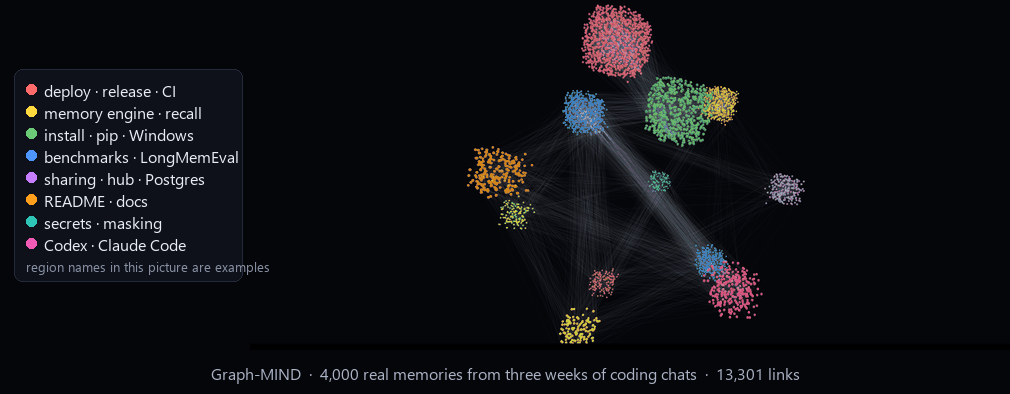
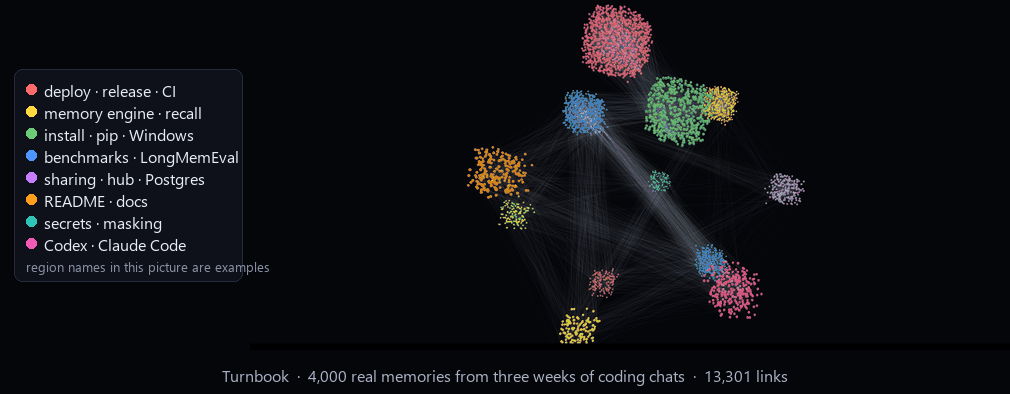
Finish the rename: setup script, demo images, absolute image links for PyPI

Changed region(s): [[0.2149, 0.9137, 0.798, 0.9746]]

diff --git a/bench/evidence.py b/bench/evidence.py
@@ -4,7 +4,7 @@ For each question a fresh store is filled with its haystack exactly as the captu
 fill it (every turn, verbatim, dated by its session, embedded before anyone asks: a server meeting
 a backlog answers from word search while it embeds), the question goes through what brain_context
 runs with its shipped defaults, and we check which answer-bearing turns reach the packet. No model
-is called: this is the part of accuracy that Graph-MIND itself controls, measured on every change.
+is called: this is the part of accuracy that Turnbook itself controls, measured on every change.
 The answer accuracy behind it (88.8%) needs an answer model and a judge: research/REPORT.md §10.
 
 Reported overall, per question type, and apart for the 120 questions the path was tuned on:

diff --git a/bench/recovery.py b/bench/recovery.py
@@ -1,4 +1,4 @@
-"""Does Graph-MIND heal by itself? Every fault it is meant to survive, run and timed.
+"""Does Turnbook heal by itself? Every fault it is meant to survive, run and timed.
 
 Each scenario is a test that breaks something the way it breaks on users' PCs and checks the
 memory keeps answering or comes back without the user. The gaps below are faults nothing handles

diff --git a/README.md b/README.md
@@ -1,7 +1,7 @@
 <!-- mcp-name: io.github.goyohan0611-png/turnbook -->
 <div align="center">
 
-<img src="demo/logo.png" alt="Turnbook" width="112">
+<img src="https://raw.githubusercontent.com/goyohan0611-png/turnbook/main/demo/logo.png" alt="Turnbook" width="112">
 
 # Turnbook
 
@@ -23,7 +23,7 @@
 
 **English** · [한국어](README.ko.md)
 
-<img src="demo/demo.gif" alt="Recorded live: Claude Code saves a decision to Turnbook, and Codex, a different app, recalls it" width="900">
+<img src="https://raw.githubusercontent.com/goyohan0611-png/turnbook/main/demo/demo.gif" alt="Recorded live: Claude Code saves a decision to Turnbook, and Codex, a different app, recalls it" width="900">
 
 <sub>Recorded live on one PC: Claude Code (Opus 5.5, effort high) and Codex (GPT-6.1-Sol, effort high) sharing one Turnbook memory. Model thinking time is fast-forwarded.</sub>
 

diff --git a/README.ko.md b/README.ko.md
@@ -1,6 +1,6 @@
 <div align="center">
 
-<img src="demo/logo.png" alt="Turnbook" width="112">
+<img src="https://raw.githubusercontent.com/goyohan0611-png/turnbook/main/demo/logo.png" alt="Turnbook" width="112">
 
 # Turnbook
 
@@ -19,7 +19,7 @@
 
 [English](README.md) · **한국어**
 
-<img src="demo/demo.gif" alt="실제 녹화: Claude Code가 Turnbook에 저장한 결정을 다른 앱인 Codex가 기억하는 장면" width="900">
+<img src="https://raw.githubusercontent.com/goyohan0611-png/turnbook/main/demo/demo.gif" alt="실제 녹화: Claude Code가 Turnbook에 저장한 결정을 다른 앱인 Codex가 기억하는 장면" width="900">
 
 <sub>한 PC에서 실제로 녹화: Claude Code(Opus 5.5, effort high)와 Codex(GPT-6.1-Sol, effort high)가 Turnbook 기억 하나를 같이 씁니다. 모델이 생각하는 시간은 빨리 감았습니다.</sub>
 
